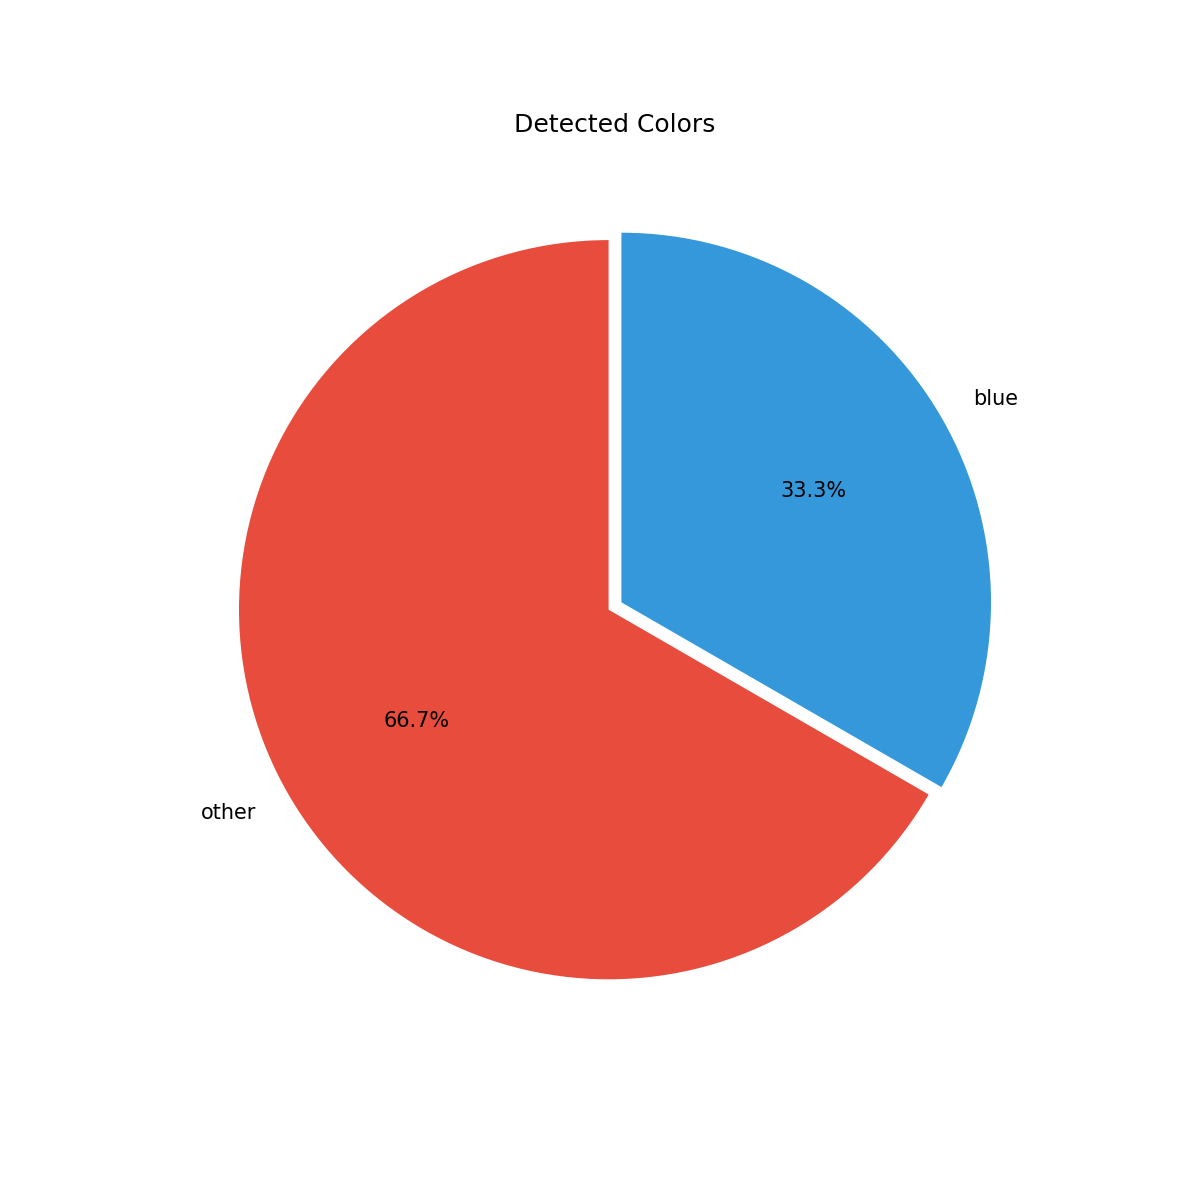
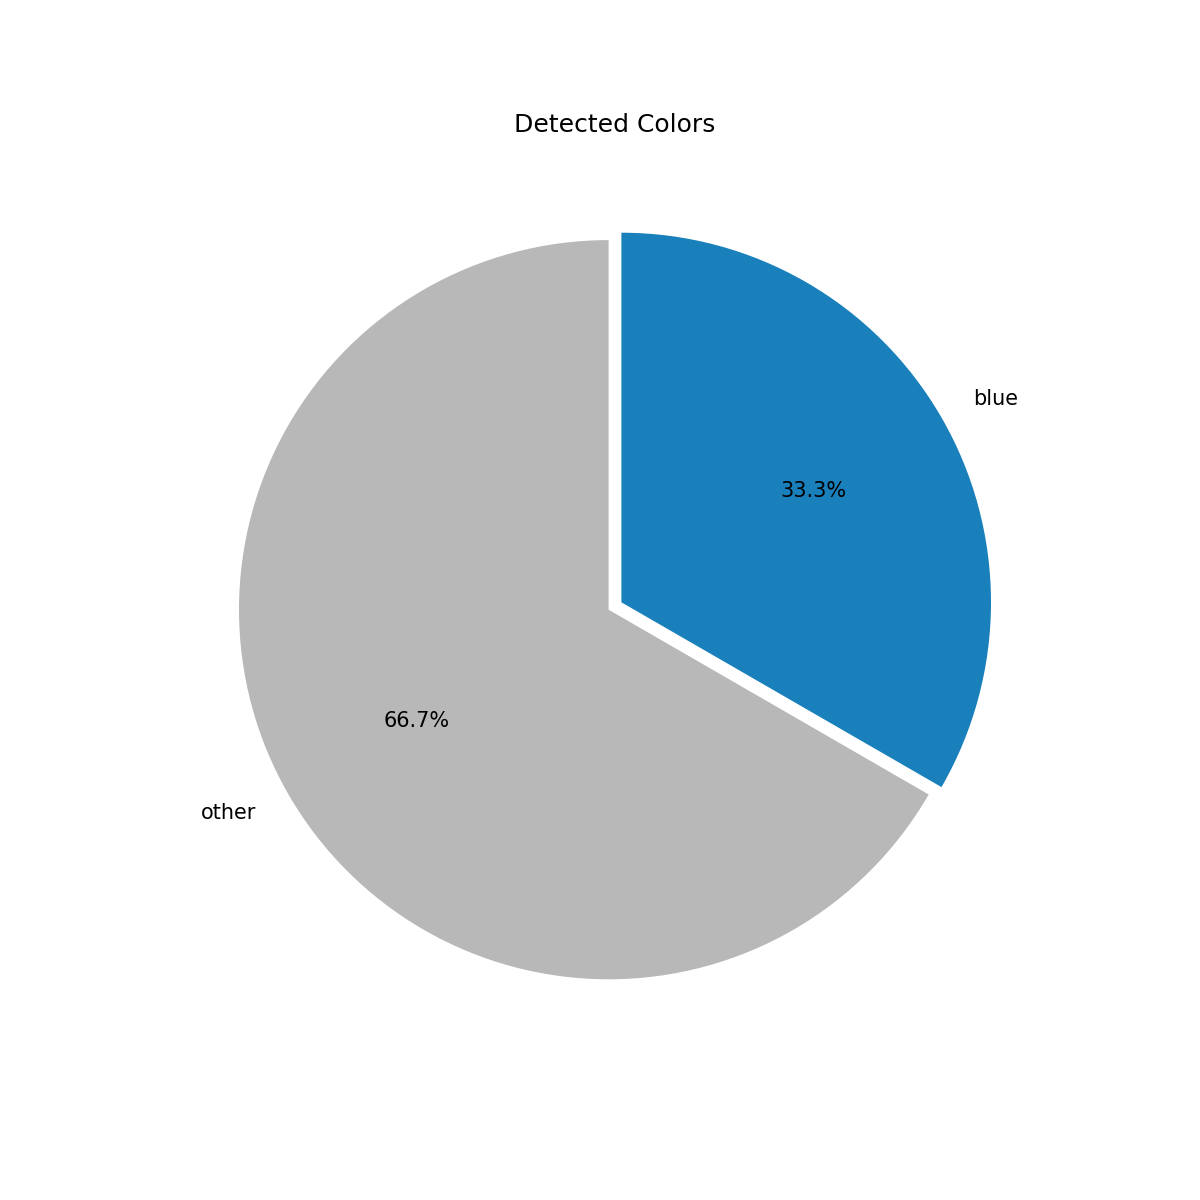
change colors of the graphs

Changed region(s): [[0.185, 0.185, 0.8325, 0.8325]]

diff --git a/scripts/generate_kpi.py b/scripts/generate_kpi.py
@@ -278,7 +278,7 @@ def plot_phase_comparison(kpis, outdir):
         return
 
     plt.figure(figsize=(10, 5))
-    bars = plt.bar(phases, avgs, yerr=stds, capsize=5, color=["#3498db", "#2ecc71", "#e74c3c"])
+    bars = plt.bar(phases, avgs, yerr=stds, capsize=5, color=["#1a80bb", "#ea801c", "#b8b8b8"])
     plt.ylabel("Duration [s]")
     plt.title("Average Duration per Phase")
     plt.grid(axis="y", alpha=0.3)
@@ -307,10 +307,10 @@ def plot_phase_breakdown(kpis, outdir):
     x = range(1, len(cycles) + 1)
 
     plt.figure(figsize=(14, 6))
-    plt.bar(x, pickplace, label="Pickplace", color="#3498db")
-    plt.bar(x, colorsensor, bottom=pickplace, label="Colorsensor", color="#2ecc71")
+    plt.bar(x, pickplace, label="Pickplace", color="#1a80bb")
+    plt.bar(x, colorsensor, bottom=pickplace, label="Colorsensor", color="#ea801c")
     plt.bar(x, sorter, bottom=[p + c for p, c in zip(pickplace, colorsensor)],
-            label="Sorter", color="#e74c3c")
+            label="Sorter", color="#b8b8b8")
 
     plt.xlabel("Cycle")
     plt.ylabel("Duration [s]")
@@ -345,8 +345,8 @@ def plot_color_distribution(kpis, outdir):
     values = list(colors.values())
 
     color_map = {
-        "blue": "#3498db",
-        "other": "#e74c3c",
+        "blue": "#1a80bb",
+        "other": "#b8b8b8",
     }
     pie_colors = [color_map.get(l, "#bdc3c7") for l in labels]
 
